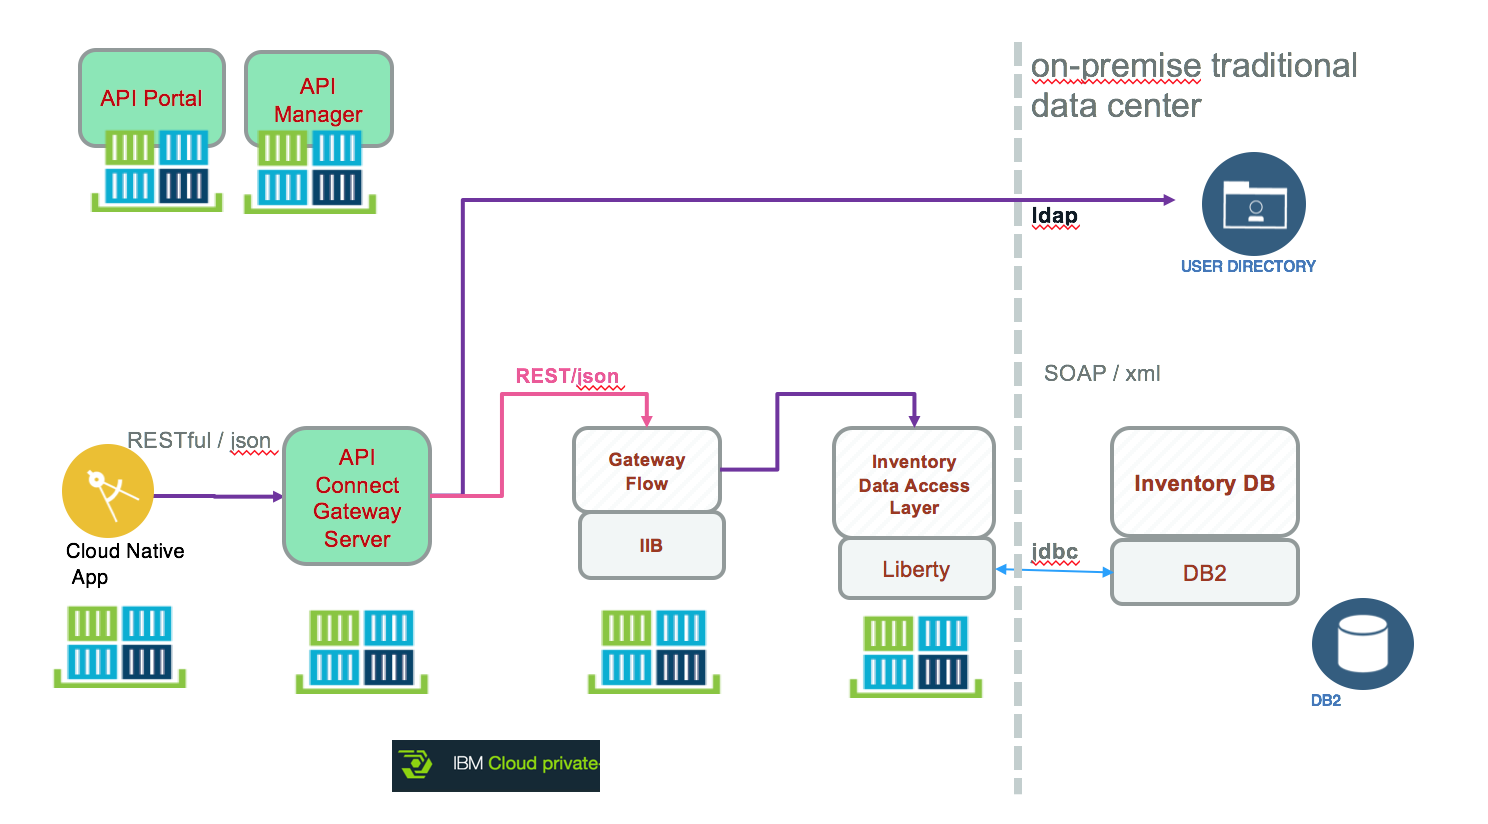
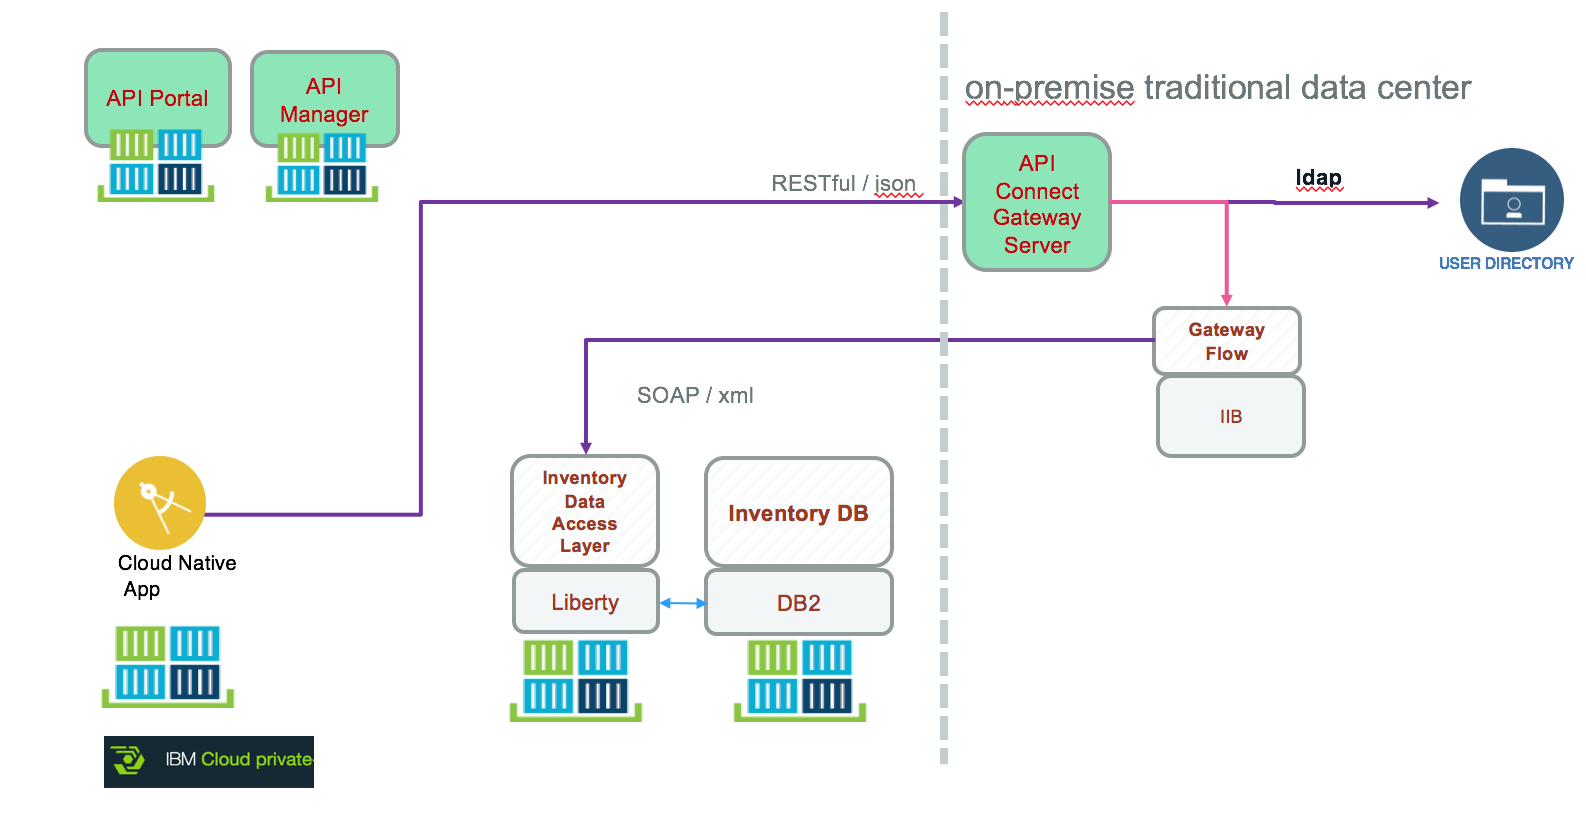
Update for RC3

Changed region(s): [[0.0309, 0.0306, 0.9892, 0.978], [0.8656, 0.5196, 0.8965, 0.5501]]

diff --git a/docs/icp/README.md b/docs/icp/README.md
@@ -1,14 +1,31 @@
 # IBM Cloud Private Deployment
 In this section we are presenting how *Hybrid integration compute implementation* is deployed to IBM Cloud Private. For that we will address different configurations as business and operation requirements may differ per data center.
 
+Updated 10/18/2107
+
+## Prerequisites
+* A conceptual understanding of how [Kubernetes](https://kubernetes.io/docs/concepts/) works.
+* A high-level understanding of [Helm and Kubernetes package management](https://docs.helm.sh/architecture/).
+* A basic understanding of [IBM Cloud Private cluster architecture](https://www.ibm.com/support/knowledgecenter/SSBS6K_2.1.0/getting_started/architecture.html).
+* Access to an operational IBM Cloud Private cluster.
+* Install the IBM Cloud Private command line interface to manage applications, containers, services...
+* Add a **brown** namespace using ICP admin console, under Admin > Namespaces menu
+![](icp-namespace.png)
+
+![](icp-brown-ns.png)
+
+We will use this namespace to push brown components.
+
+
+# Configurations
 ## Cfg 1: Cloud native application on ICP
-This is the simplest deployment where the cloud native web application ([the 'case' portal]()) is deployed as container running in ICP, but access the back end service via API Connect running on-premise. All other components run on-premise.
+This is the simplest deployment where the cloud native web application ([the 'case' portal](https://github.com/ibm-cloud-architecture/refarch-caseinc-app)) is deployed as container running in ICP, but it accesses the back end service via API Connect running on-premise. All other components run on-premise.
 
 ![WebApp](./bc-icp-cfg1.png)
 
-This approach will be the less disruptive, let the development team to innovate with new polyglot run time environments supported by Cloud native based application.
+This approach will be the less disruptive, let the development team to innovate with new polyglot runtime environments supported by Cloud native based application.
 
-To support this configuration you just need to package the web application as docker container, define a helm chart for ICP deployment configuration settings, and use helm and kubectl command line interface. The [following tutorial](https://github.com/ibm-cloud-architecture/refarch-caseinc-app/blob/master/docs/run-icp.md) addresses those steps in detail.
+To support this configuration you just need to package the web application as docker container, define a helm chart for ICP deployment configuration settings, and use helm and kubectl command line interface. The [following tutorial](https://github.com/ibm-cloud-architecture/refarch-caseinc-app/blob/master/docs/run-icp.md) presents those steps in detail.
 
 ## Cfg 2: Web App, API Connect on ICP
 This configuration is not yet supported. The API Connect gateway component, the API manager and API developer portal are all deployed on ICP.
@@ -19,7 +36,7 @@ The gateway flow running the interface mapping runs on IBM Integration bus.
 
 This configuration should be quite common as the Integration Bus is using existing high end deployment, scale both horizontally and vertically, and most likely will not move to ICP.
 
-When API Connect will support full container deployment this configuration will be valid.
+When API Connect will support full container deployment this configuration will be valid and documented here.
 
 ## Cfg 3: Web App, API Connect and Liberty App on ICP
 
@@ -27,36 +44,54 @@ For this configuration the web service application running on WebSphere Liberty 
 
 ![Brown on ICP](./bc-icp-cfg3.png)
 
-To support this configuration on top of config 2, the  *Inventory Data Access Layer* app running on Liberty is packaged as docker container and deployed using helm chart deployment configuration. Please read [this article](https://github.com/ibm-cloud-architecture/refarch-integration-inventory-dal/blob/master/docs/icp-deploy.md) to assess how it is done
+To support this configuration on top of config 2, the  *Inventory Data Access Layer* app running on Liberty is packaged as docker container and deployed using helm chart deployment configuration. Please read [this article](https://github.com/ibm-cloud-architecture/refarch-integration-inventory-dal/blob/master/docs/icp-deploy.md) to assess how it is done.
 
 The LDAP, DB2 server servers are still running on Traditional IT servers.
 
-## Cfg 4: Add IIB to ICP
-This configuration add IIB deployed on ICP to the previous configuration.
+## Cfg 4: Integration outside of ICP
+This configuration is using integration components on premise and the other more lightweight components on ICP:
+* Any Web applications
+* Data access Layer
+* Database
 
 ![](./bc-icp-cfg4.png)
+
+We document [here]() how to deploy DB2 on ICP.
+
+This approach leverages existing investment and IIB concept of operation, and IBM Datapower for security and API gateway.
+
+
+## Cfg 5: IIB to ICP
+This configuration add IIB deployed on ICP to the previous configuration.
+
+![](./bc-icp-cfg5.png)
 
 This approach has an impact on the way to manage application inside IIB. Instead of deploying multiple applications inside one instance of IIB, we are packaging the app and IIB runtime into a unique container to deploy in pods and facilitate horizontal scaling. The vertical scaling delivered out of the box in IIB is not leveraged.
 
 The how to do this kind of deployment is described [here](https://github.com/ibm-cloud-architecture/refarch-integration-esb/blob/master/IBMCloudprivate/README.md)
 
+The last configuration will be to run all the components on ICP, and we already documented how each component deploy.
+
 ## Build server
 The build server will also stay on-premise as it is used by "multiple teams". This approach is to illustrate a real hybrid IT environment (We do not need to proof that all the pieces can run on cloud based solutions).
 
+
 # ICP installation
-You will different installation done for your different staging environment. For a full tutorial on how to install ICP with 5 hosts see [this note](https://github.com/ibm-cloud-architecture/refarch-privatecloud/blob/master/Installing_ICP_on_prem.md)
+For the development purpose, tutorial, etc, we are using a deployment in a single virtual machine, but you will have different installation for each of you different staging environments. For a full tutorial on how to install ICP with 5 hosts see [this note](https://github.com/ibm-cloud-architecture/refarch-privatecloud/blob/master/Installing_ICP_on_prem.md)
 
 See [ICP 2.1 product documentation](https://www.ibm.com/support/knowledgecenter/SSBS6K_2.1.0/installing/install_containers_CE.html) to get other details.
 
+
 ## ICP instance for development
-We have created a single VM to host ICP for development purpose (See detail [in VM Configuration for IBM Cloud Private 2.1](install-dev-icp21.md)). The approach is to follow staging environments to promote the code between those environments.
+We have created a single VM to host ICP for development purpose (See detail [in VM Configuration for IBM Cloud Private 2.1](install-dev-icp21.md)).
+There is a nice alternate solution to define your own VM, is to use a Vagrant file to get a ICP up and running quickly see [this github](https://github.com/IBM/deploy-ibm-cloud-private).
 
 This section is a quick summary of what you may do to install a ICP 2.1 CE development host on a single VM with Ubuntu 64 bits 16.10.
 
 The developer environment may look like the following diagram, for a developer on Mac and a VM ubuntu image (Windows will look similar)
 ![](dev-env.png)
 
-The developer's machine and VM needs both to have docker or at most the VM needs it. In this last case the docker build will be perform inside the VM. To access the cluster environment you need *kubectl** command line interface and hosts conguration to march the configuration defined during the ICP install.
+The developer's machine and VM needs both to have docker or at least the VM needs it. To access the cluster environment you need *kubectl** command line interface and hosts configuration to match the configuration defined during the ICP install.
 
 A developer needs to have on his development environment the following components:
 * [Docker](#install-docker)
@@ -64,14 +99,14 @@ A developer needs to have on his development environment the following component
 * [Helm](#install-helm)
 * A VM player to install and run ubuntu machine
 
-If you need to access the dockerhub IBM public image, use [docker hub explorer](https://hub.docker.com/explore/) and search for **ibmcom**
+If you need to access the dockerhub IBM public images, use [docker hub explorer](https://hub.docker.com/explore/) and search for **ibmcom**
 
 # Common installation tasks
 There are a set of tools and configuration you need to perform, to connect to ICP master node and interact with Kubernetes cluster, docker private registry and helm charts Tiller server.
-As an example we are configuring the *build* server to be able to build the different docker images necessary for the solution to work. The figure below illustrates what need to be done:
+As an example we are configuring the *build* server to be able to build the different docker images of our solution. The figure below illustrates what need to be done:
 ![](devops-icp.png)
 
-A Jenkins server implements different pipeline to pull the different project from github, execute the jenkins file to build the different elements: compiled code, docker image, helm package.
+A Jenkins server implements different pipeline to pull the different project from github, executes each jenkins file to build the different elements: compiled code, docker image, helm package.
 
 ## Install docker
 If you do not have docker install on your development machine, we will not describe it again ;-). See [docker download](https://docs.docker.com/engine/installation/).
@@ -119,7 +154,6 @@ If you have configured kubeclt to connect to the ICP master server, the above co
 ```
 Client: &version.Version{SemVer:"v2.5.0", GitCommit:"012cb0ac1a1b2f888144ef5a67b8dab6c2d45be6", GitTreeState:"clean"}
 Server: &version.Version{SemVer:"v2.5.0", GitCommit:"012cb0ac1a1b2f888144ef5a67b8dab6c2d45be6", GitTreeState:"clean"}
-
 ```
 
 
@@ -165,3 +199,27 @@ Password:
    * push the image to the remote repository
    * build the helm package from the chart definition
    * install the chart to cluster using *helm*
+
+## Define a remote helm repository
+   ICP supports referencing remote helm charts repository, but it also includes internal repository as illustrated in following figure:
+   ![](icp-repo.png)
+
+   The hybrid integration set of projects has each component creating its own helm packaging (tgz files) and persisted into the current project *charts* folder. An **index.yaml** file defines the components part of this repository.
+
+## Troubleshooting
+* Unknown authority
+When doing a docker login the following message may be reported
+```
+Error response from daemon: Get https://mycluster.icp:8500/v2/: x509: certificate signed by unknown authority
+```
+Go to your docker engine configuration and add the remote registry as an insecure one. On MAC you select the docker > preferences > Advanced meny and then add the remote master name
+```json
+{
+  "debug" : true,
+  "experimental" : true,
+  "insecure-registries" : [
+    "jbcluster.icp:8500",
+    "mycluster.icp:8500"
+  ]
+}
+```

diff --git a/README.md b/README.md
@@ -24,7 +24,7 @@ This current project provides a reference implementation for building and runnin
 * **Build and run the hybrid integration Compute model**
   * [Environment Setup](https://github.com/ibm-cloud-architecture/refarch-integration#the-current-physical-deployment-and-installation)
   * [Build and run](https://github.com/ibm-cloud-architecture/refarch-integration#build-and-run)
-  * [Deployment to IBM Cloud Private](./docs/icp/icp-deploy.md)
+  * [Deployment to IBM Cloud Private](./docs/icp/README.md)
   * [Deployment to Bluemix Container Service IBM Bluemix](./docs/run-bmx-cs.md)
   * [Deploy on Bluemix Cloud Foundry](./docs/run-bmx-cf.md)
 * [Methodology](https://github.com/ibm-cloud-architecture/refarch-integration#methodology)

diff --git a/docs/icp/icp-cli.md b/docs/icp/icp-cli.md
@@ -1,0 +1,11 @@
+
+## Install CLI on your computer
+https://www.ibm.com/support/knowledgecenter/SSBS6K_2.1.0/manage_cluster/install_cli.html
+
+Login to your cluster
+```
+bx pr login -a https://<master_ip_address>:8443 --skip-ssl-validation
+```
+
+## Summary of CLI
+https://www.ibm.com/support/knowledgecenter/SSBS6K_2.1.0/manage_cluster/cli_commands.html

diff --git a/docs/icp/icp-troubleshooting.md b/docs/icp/icp-troubleshooting.md
@@ -1,0 +1,5 @@
+# Troubleshooting in ICP
+
+## Assess deployed app
+In admin console go to Workloads > Application.
+![](casewebportal-deploy.png)
